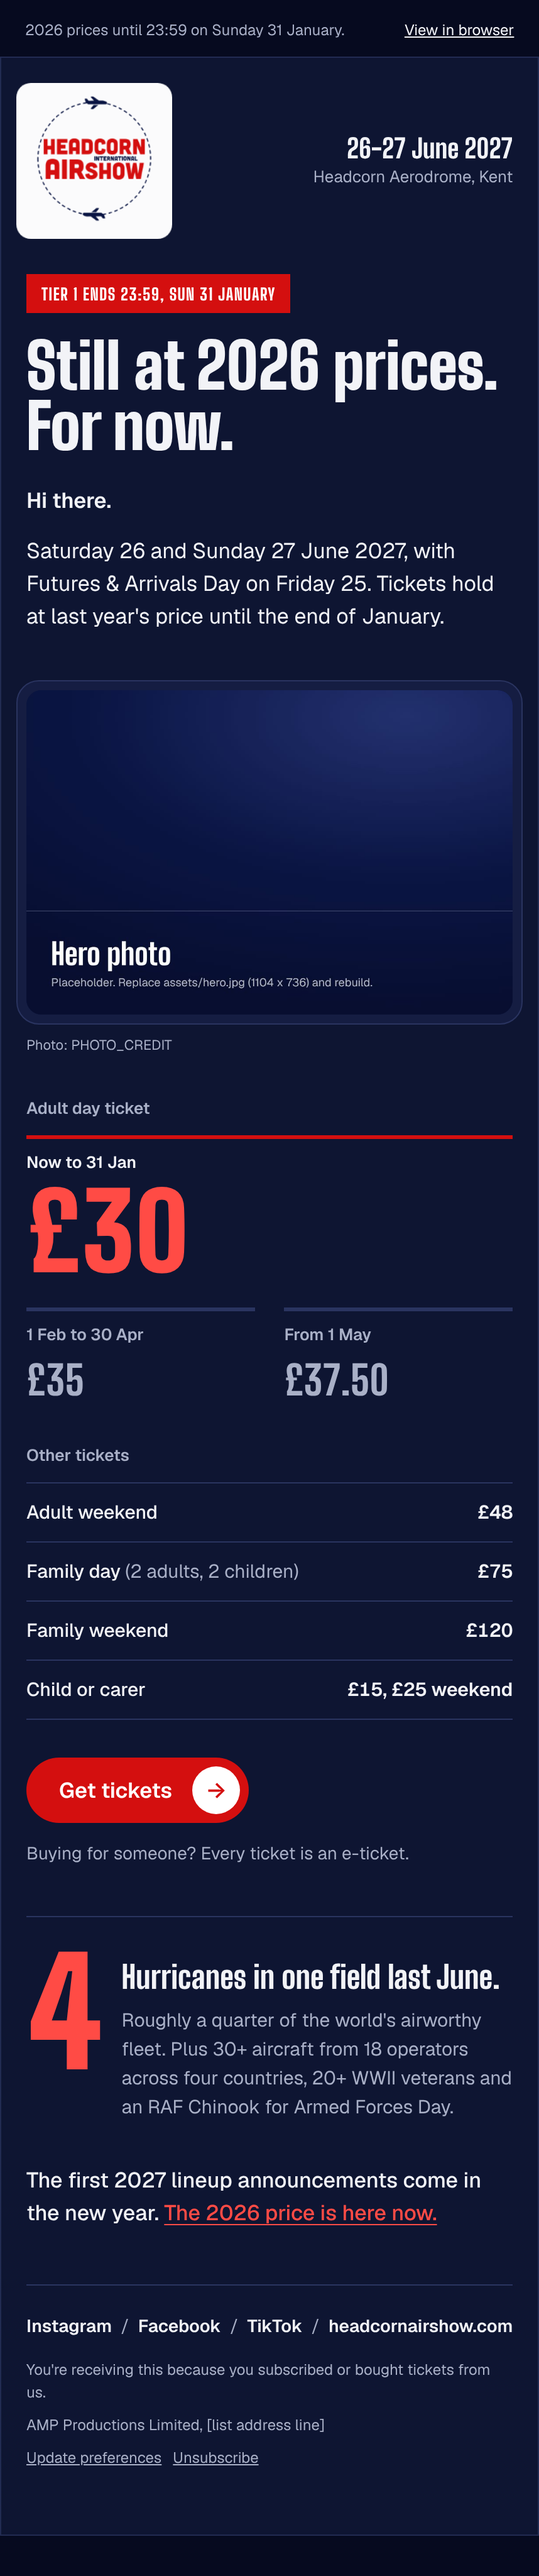
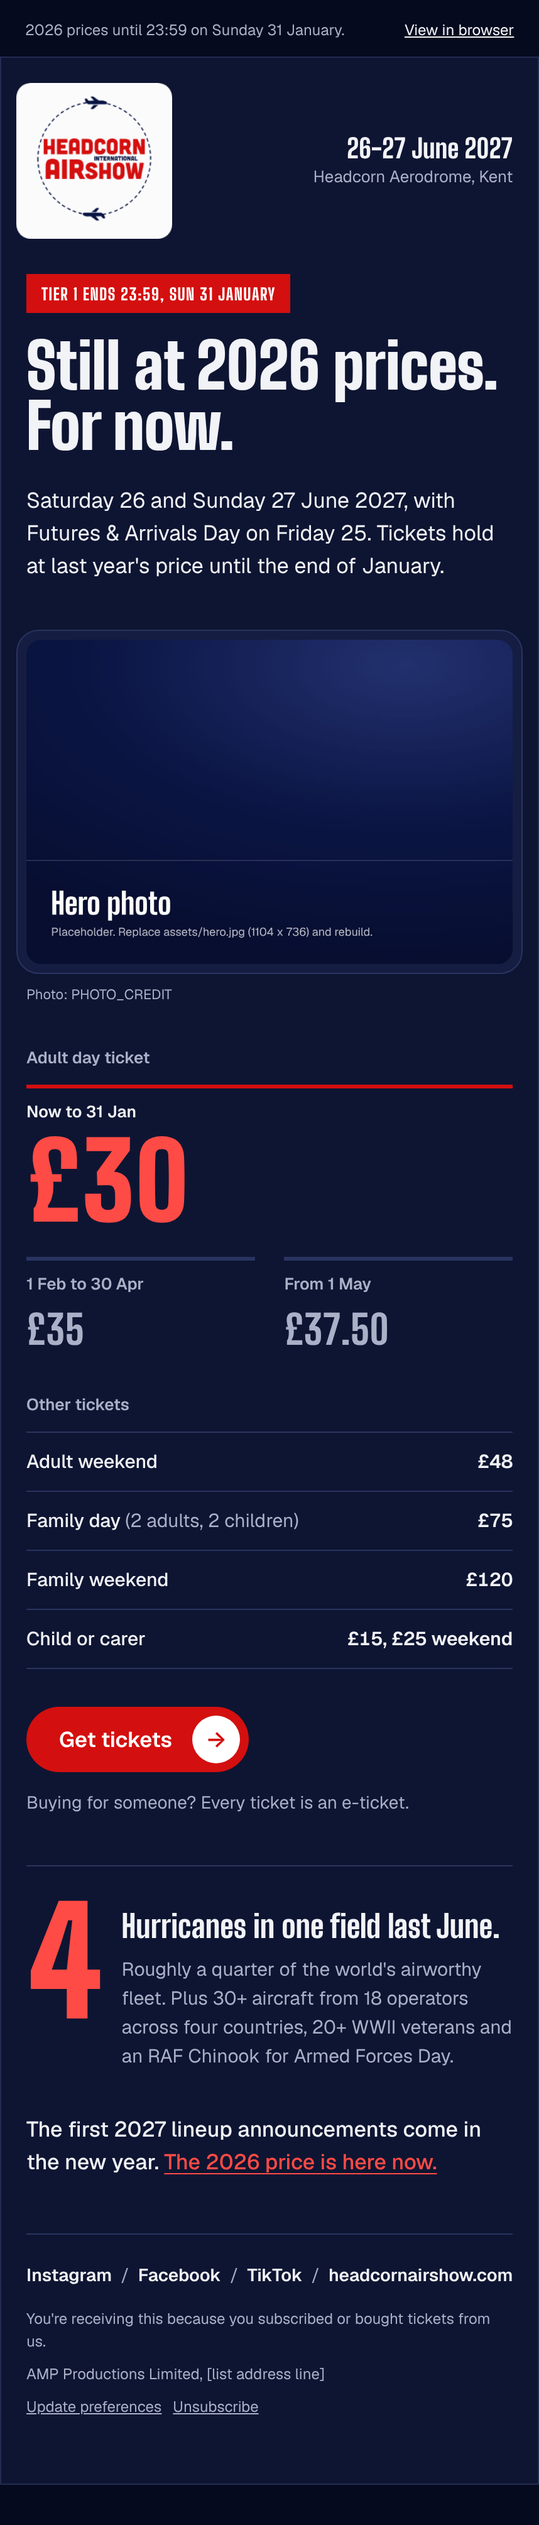
Remove first-name greeting from Email 1
Claude-Session: https://claude.ai/code/session_01RYv22kBDRZPB5vTuR4e7go

diff --git a/build/email-1-tier1.html b/build/email-1-tier1.html
@@ -103,7 +103,7 @@
 </td></tr></table></td></tr>
 <tr><td class="px" style="-webkit-text-size-adjust: 100%; -ms-text-size-adjust: 100%; mso-table-lspace: 0pt; mso-table-rspace: 0pt; border-collapse: collapse; padding: 28px 24px 0 24px;"><table role="presentation" cellpadding="0" cellspacing="0" border="0" style="-webkit-text-size-adjust: 100%; -ms-text-size-adjust: 100%; mso-table-lspace: 0pt; mso-table-rspace: 0pt; border-collapse: collapse;"><tr><td class="flag" bgcolor="#D40F0F" style="-webkit-text-size-adjust: 100%; -ms-text-size-adjust: 100%; mso-table-lspace: 0pt; mso-table-rspace: 0pt; border-collapse: collapse; background-color: #D40F0F; padding: 8px 12px 7px 12px; font-family: 'Big Shoulders Display', Impact, 'Arial Narrow Bold', sans-serif; font-weight: 800; font-size: 16px; line-height: 16px; letter-spacing: 0.06em; color: #FFFFFF; mso-line-height-rule: exactly;">TIER 1 ENDS 23:59, SUN 31 JANUARY</td></tr></table></td></tr>
 <tr><td class="px" style="-webkit-text-size-adjust: 100%; -ms-text-size-adjust: 100%; mso-table-lspace: 0pt; mso-table-rspace: 0pt; border-collapse: collapse; padding: 18px 24px 0 24px;"><div mc:edit="headline"><h1 class="h1 t-navy" style="margin:0;font-family:'Big Shoulders Display', Impact, 'Arial Narrow Bold', sans-serif;font-weight:900;font-size:66px;line-height:62px;letter-spacing:-0.005em;color:#0A1543;mso-line-height-rule:exactly;">Still at 2026 prices. For now.</h1></div></td></tr>
-<tr><td class="px" style="-webkit-text-size-adjust: 100%; -ms-text-size-adjust: 100%; mso-table-lspace: 0pt; mso-table-rspace: 0pt; border-collapse: collapse; padding: 22px 24px 10px 24px;"><div mc:edit="intro"><p class="t-navy" style="-webkit-text-size-adjust: 100%; -ms-text-size-adjust: 100%; margin: 0 0 14px 0; font-family: Geist, 'Helvetica Neue', Arial, sans-serif; font-size: 17px; line-height: 26px; font-weight: 600; color: #0A1543;">*|IF:FNAME|*Hi *|FNAME|*.*|ELSE:|*Hi there.*|END:IF|*</p><p class="t-navy" style="-webkit-text-size-adjust: 100%; -ms-text-size-adjust: 100%; margin: 0 0 14px 0; font-family: Geist, 'Helvetica Neue', Arial, sans-serif; font-size: 17px; line-height: 26px; color: #0A1543;">Saturday 26 and Sunday 27 June 2027, with Futures &amp; Arrivals Day on Friday 25. Tickets hold at last year's price until the end of January.</p></div></td></tr>
+<tr><td class="px" style="-webkit-text-size-adjust: 100%; -ms-text-size-adjust: 100%; mso-table-lspace: 0pt; mso-table-rspace: 0pt; border-collapse: collapse; padding: 22px 24px 10px 24px;"><div mc:edit="intro"><p class="t-navy" style="-webkit-text-size-adjust: 100%; -ms-text-size-adjust: 100%; margin: 0 0 14px 0; font-family: Geist, 'Helvetica Neue', Arial, sans-serif; font-size: 17px; line-height: 26px; color: #0A1543;">Saturday 26 and Sunday 27 June 2027, with Futures &amp; Arrivals Day on Friday 25. Tickets hold at last year's price until the end of January.</p></div></td></tr>
 <tr><td class="px-hero" style="-webkit-text-size-adjust: 100%; -ms-text-size-adjust: 100%; mso-table-lspace: 0pt; mso-table-rspace: 0pt; border-collapse: collapse; padding: 14px 15px 0 15px;"><div mc:edit="hero">
 <table role="presentation" cellpadding="0" cellspacing="0" border="0" width="100%" style="-webkit-text-size-adjust: 100%; -ms-text-size-adjust: 100%; mso-table-lspace: 0pt; mso-table-rspace: 0pt; width: 100%; border-collapse: separate;"><tr><td class="tray b-rule" bgcolor="#EEF0F4" style="-webkit-text-size-adjust: 100%; -ms-text-size-adjust: 100%; mso-table-lspace: 0pt; mso-table-rspace: 0pt; border-collapse: collapse; background-color: #EEF0F4; border: 1px solid #DDE1E8; border-radius: 18px; padding: 7px;">
 <table role="presentation" cellpadding="0" cellspacing="0" border="0" width="100%" style="-webkit-text-size-adjust: 100%; -ms-text-size-adjust: 100%; mso-table-lspace: 0pt; mso-table-rspace: 0pt; width: 100%; border-collapse: separate;"><tr><td bgcolor="#0A1543" style="-webkit-text-size-adjust: 100%; -ms-text-size-adjust: 100%; mso-table-lspace: 0pt; mso-table-rspace: 0pt; border-collapse: collapse; background-color: #0A1543; border-radius: 12px;">

diff --git a/src/emails/email-1-tier1.js b/src/emails/email-1-tier1.js
@@ -19,6 +19,7 @@ module.exports = {
     { type: 'headline', text: 'Still at 2026 prices. For now.' },
     {
       type: 'intro',
+      greeting: false,
       paragraphs: [
         'Saturday 26 and Sunday 27 June 2027, with Futures &amp; Arrivals Day on Friday 25. Tickets hold at last year\'s price until the end of January.',
       ],
